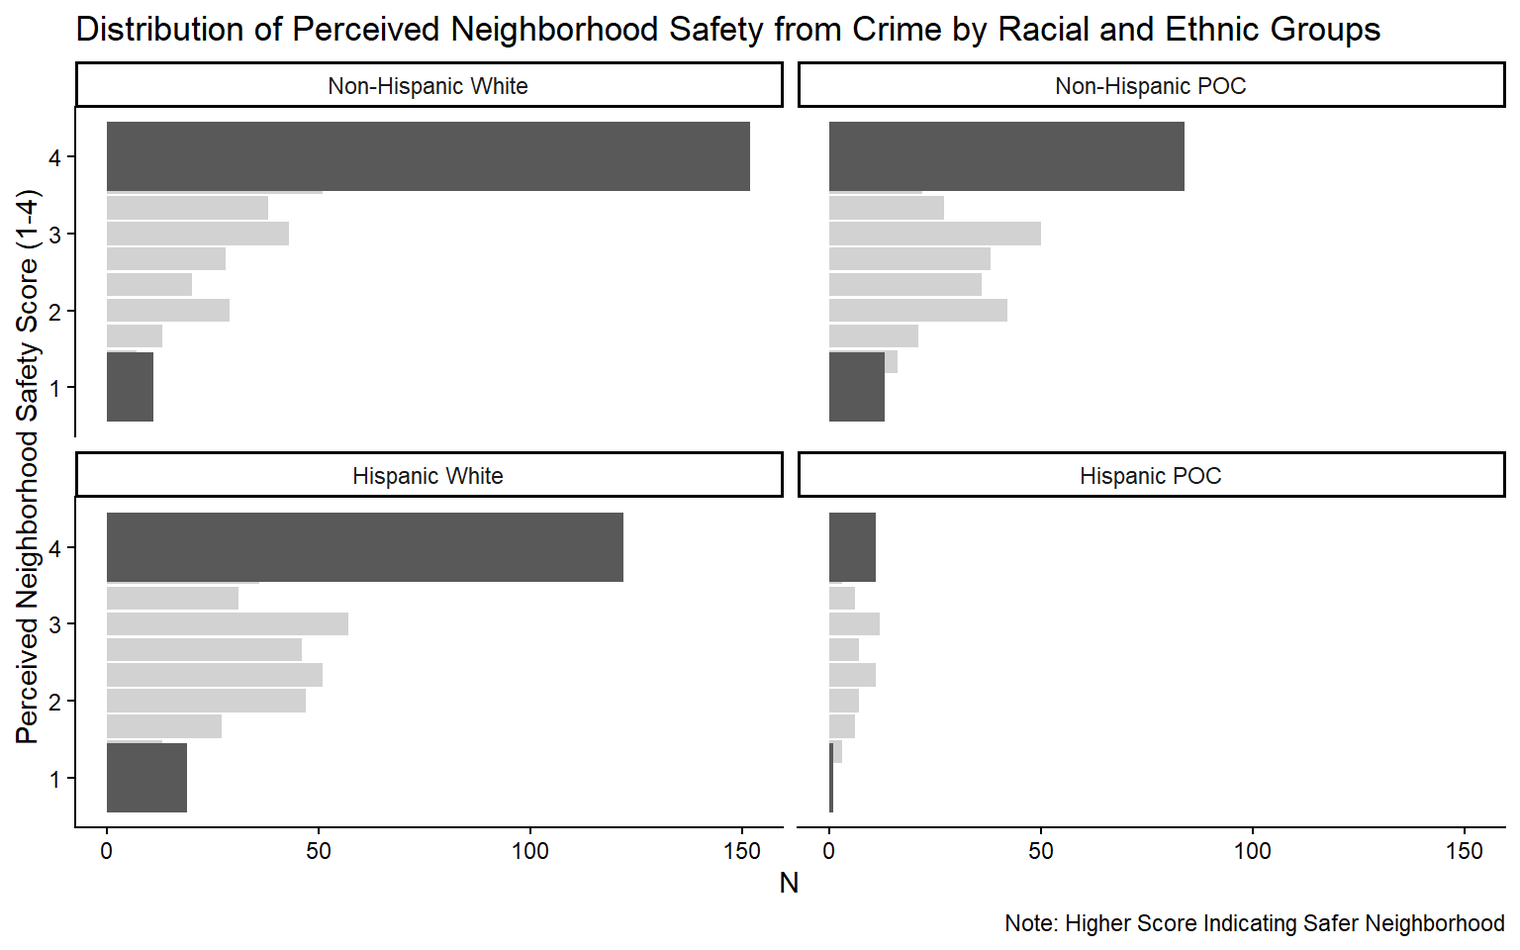
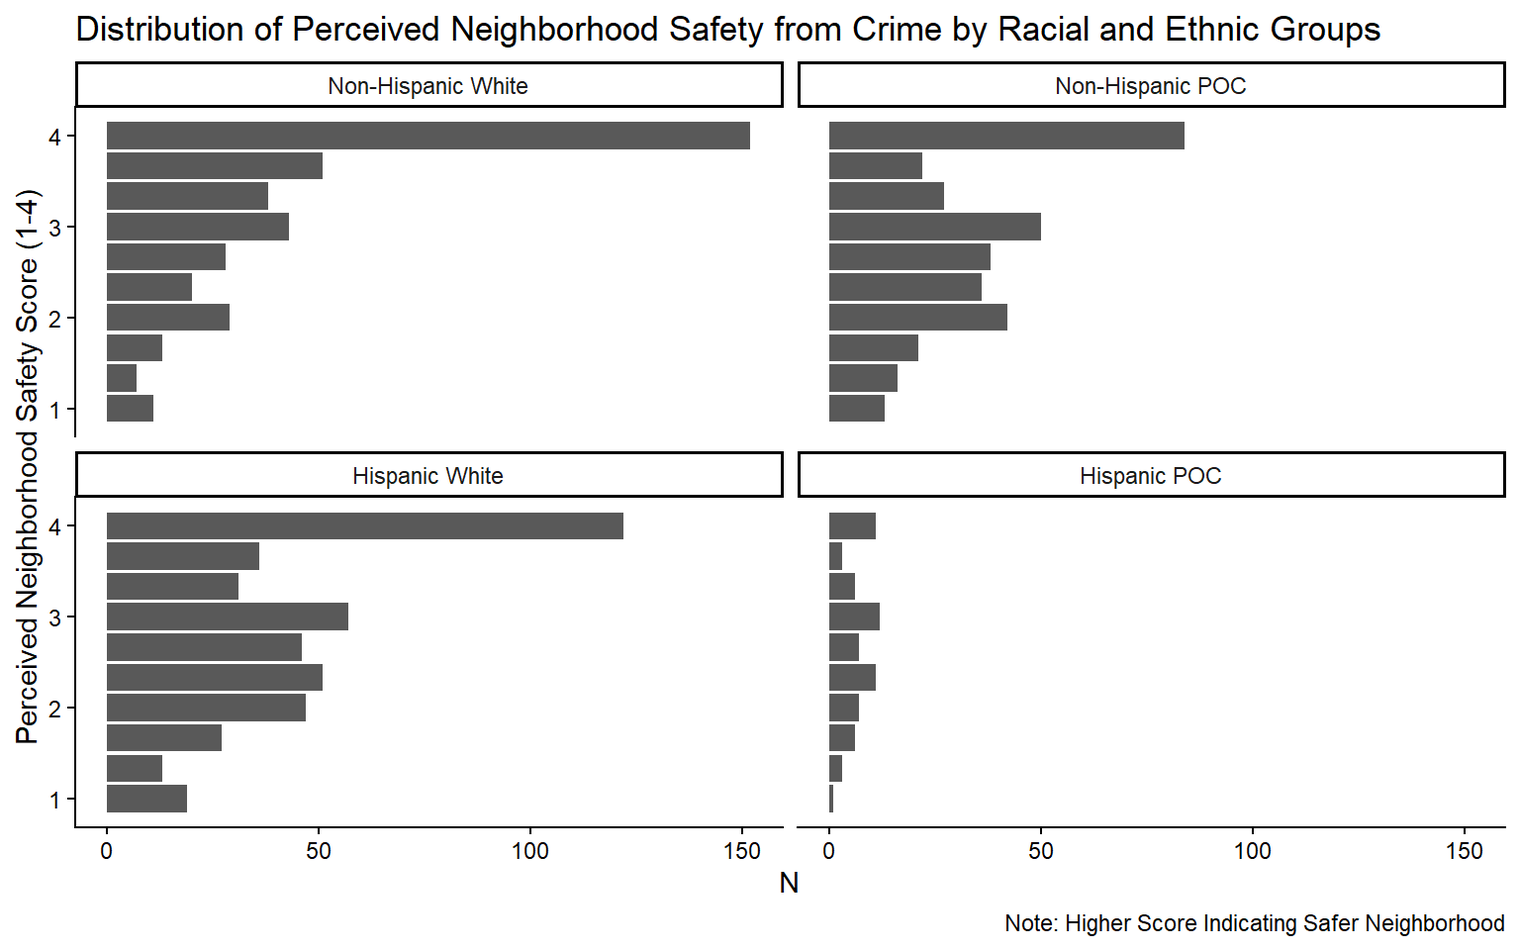
Final 3.17.26

diff --git a/index.html b/index.html
@@ -80,26 +80,42 @@ ul.task-list li input[type="checkbox"] {
 grid-auto-rows: minmax(0, 1fr);">
 <div id="exploring-variations-across-raceethnicity" class="dashboard-page tab-pane show active html-fill-item html-fill-container dashboard-sidebar-container" data-orientation="columns" aria-labelledby="tab-exploring-variations-across-raceethnicity">
 <div class="bslib-sidebar-layout html-fill-item html-fill-container" data-bslib-sidebar-open="desktop" data-bslib-sidebar-init="true" data-bslib-sidebar-border="false" data-bslib-sidebar-border-radius="false"><div class="main html-fill-container html-fill-item"><div class="sidebar-content html-fill-item html-fill-container">
-<div class="html-fill-item html-fill-container bslib-grid" style="display: grid; grid-template-columns: minmax(3em, 1fr);
+<div class="html-fill-item html-fill-container bslib-grid" style="display: grid; grid-template-columns: minmax(3em, 1fr) minmax(3em, 1fr);
 grid-auto-rows: minmax(0, 1fr);">
-<div class="card tabset html-fill-item html-fill-container bslib-card" data-bslib-card-init="" data-require-bs-caller="card()" data-full-screen="false">
-<div class="card-header dashboard-card-no-title bslib-navs-card-title">
-
-<ul class="nav nav-tabs card-header-tabs" role="tablist" data-tabsetid="card-tabset-1"><li class="nav-item" role="presentation"><a href="#card-tabset-1-1" role="tab" data-toggle="tab" data-bs-toggle="tab" data-value="Data Viz 1 (Ver. 1)" aria-selected="true" class="nav-link active">Data Viz 1 (Ver. 1)</a></li><li class="nav-item" role="presentation"><a href="#card-tabset-1-2" role="tab" data-toggle="tab" data-bs-toggle="tab" data-value="Data Viz 1 (Ver. 2)" aria-selected="false" class="nav-link">Data Viz 1 (Ver. 2)</a></li><li class="nav-item" role="presentation"><a href="#card-tabset-1-3" role="tab" data-toggle="tab" data-bs-toggle="tab" data-value="Data Viz 1 (Ver. 3)" aria-selected="false" class="nav-link">Data Viz 1 (Ver. 3)</a></li></ul></div>
-
-
-
-<div class="tab-content html-fill-item html-fill-container" data-tabset-id="card-tabset-1"><div class="tab-pane active show html-fill-item html-fill-container" role="tabpanel" id="card-tabset-1-1"><div class="card-body html-fill-item html-fill-container" data-title="Data Viz 1 (Ver. 1)">
+<div class="html-fill-item html-fill-container bslib-grid" style="display: grid; grid-template-rows: minmax(3em, 1fr); grid-auto-columns: minmax(0, 1fr);">
+<div class="card cell html-fill-item html-fill-container bslib-card" data-title="Data Viz 1 - Final" data-bslib-card-init="" data-require-bs-caller="card()" data-full-screen="false">
+<div class="card-header"><div class="card-title html-fill-item html-fill-container"><span style="display: inline">
+Data Viz 1 - Final
+</span></div></div>
+<div class="card-body html-fill-item html-fill-container">
 <div class="cell-output-display html-fill-item html-fill-container">
 <img src="lab6_cs_files/figure-html/unnamed-chunk-2-1.png" class="img-fluid quarto-dashboard-img-contain">
 </div>
-</div></div><div class="tab-pane html-fill-item html-fill-container" role="tabpanel" id="card-tabset-1-2"><div class="card-body html-fill-item html-fill-container" data-title="Data Viz 1 (Ver. 2)">
+</div>
+<bslib-tooltip placement="auto" bsoptions="[]" data-require-bs-version="5" data-require-bs-caller="tooltip()">
+    <template>Expand</template>
+    <span class="bslib-full-screen-enter badge rounded-pill">
+        <svg xmlns="http://www.w3.org/2000/svg" viewbox="0 0 24 24" style="height:1em;width:1em;" aria-hidden="true" role="img"><path d="M20 5C20 4.4 19.6 4 19 4H13C12.4 4 12 3.6 12 3C12 2.4 12.4 2 13 2H21C21.6 2 22 2.4 22 3V11C22 11.6 21.6 12 21 12C20.4 12 20 11.6 20 11V5ZM4 19C4 19.6 4.4 20 5 20H11C11.6 20 12 20.4 12 21C12 21.6 11.6 22 11 22H3C2.4 22 2 21.6 2 21V13C2 12.4 2.4 12 3 12C3.6 12 4 12.4 4 13V19Z"></path></svg>
+    </span>
+</bslib-tooltip><script data-bslib-card-init="">bslib.Card.initializeAllCards();</script></div>
+</div><div class="card tabset html-fill-item html-fill-container bslib-card" data-bslib-card-init="" data-require-bs-caller="card()" data-full-screen="false">
+<div class="card-header dashboard-card-no-title bslib-navs-card-title">
+
+<ul class="nav nav-tabs card-header-tabs" role="tablist" data-tabsetid="card-tabset-2"><li class="nav-item" role="presentation"><a href="#card-tabset-2-1" role="tab" data-toggle="tab" data-bs-toggle="tab" data-value="Data Viz 1 (Ver. 1)" aria-selected="true" class="nav-link active">Data Viz 1 (Ver. 1)</a></li><li class="nav-item" role="presentation"><a href="#card-tabset-2-2" role="tab" data-toggle="tab" data-bs-toggle="tab" data-value="Data Viz 1 (Ver. 2)" aria-selected="false" class="nav-link">Data Viz 1 (Ver. 2)</a></li><li class="nav-item" role="presentation"><a href="#card-tabset-2-3" role="tab" data-toggle="tab" data-bs-toggle="tab" data-value="Data Viz 1 (Ver. 3)" aria-selected="false" class="nav-link">Data Viz 1 (Ver. 3)</a></li></ul></div>
+
+
+
+<div class="tab-content html-fill-item html-fill-container" data-tabset-id="card-tabset-2"><div class="tab-pane active show html-fill-item html-fill-container" role="tabpanel" id="card-tabset-2-1"><div class="card-body html-fill-item html-fill-container" data-title="Data Viz 1 (Ver. 1)">
 <div class="cell-output-display html-fill-item html-fill-container">
 <img src="lab6_cs_files/figure-html/unnamed-chunk-3-1.png" class="img-fluid quarto-dashboard-img-contain">
 </div>
-</div></div><div class="tab-pane html-fill-item html-fill-container" role="tabpanel" id="card-tabset-1-3"><div class="card-body html-fill-item html-fill-container" data-title="Data Viz 1 (Ver. 3)">
+</div></div><div class="tab-pane html-fill-item html-fill-container" role="tabpanel" id="card-tabset-2-2"><div class="card-body html-fill-item html-fill-container" data-title="Data Viz 1 (Ver. 2)">
 <div class="cell-output-display html-fill-item html-fill-container">
 <img src="lab6_cs_files/figure-html/unnamed-chunk-4-1.png" class="img-fluid quarto-dashboard-img-contain">
+</div>
+</div></div><div class="tab-pane html-fill-item html-fill-container" role="tabpanel" id="card-tabset-2-3"><div class="card-body html-fill-item html-fill-container" data-title="Data Viz 1 (Ver. 3)">
+<div class="cell-output-display html-fill-item html-fill-container">
+<img src="lab6_cs_files/figure-html/unnamed-chunk-5-1.png" class="img-fluid quarto-dashboard-img-contain">
 </div>
 </div></div></div><bslib-tooltip placement="auto" bsoptions="[]" data-require-bs-version="5" data-require-bs-caller="tooltip()">
     <template>Expand</template>
@@ -127,26 +143,42 @@ bslib.Sidebar.initCollapsibleAll()
 </div>
 </div><div id="exploring-variations-across-gender-identities" class="dashboard-page tab-pane grid-skip html-fill-item html-fill-container dashboard-sidebar-container" data-orientation="columns" aria-labelledby="tab-exploring-variations-across-gender-identities">
 <div class="bslib-sidebar-layout html-fill-item html-fill-container" data-bslib-sidebar-open="desktop" data-bslib-sidebar-init="true"><div class="main html-fill-container html-fill-item"><div class="sidebar-content html-fill-item html-fill-container">
-<div class="html-fill-item html-fill-container bslib-grid" style="display: grid; grid-template-columns: minmax(3em, 1fr);
+<div class="html-fill-item html-fill-container bslib-grid" style="display: grid; grid-template-columns: minmax(3em, 1fr) minmax(3em, 1fr);
 grid-auto-rows: minmax(0, 1fr);">
-<div class="card tabset html-fill-item html-fill-container bslib-card" data-bslib-card-init="" data-require-bs-caller="card()" data-full-screen="false">
-<div class="card-header dashboard-card-no-title bslib-navs-card-title">
-
-<ul class="nav nav-tabs card-header-tabs" role="tablist" data-tabsetid="card-tabset-2"><li class="nav-item" role="presentation"><a href="#card-tabset-2-1" role="tab" data-toggle="tab" data-bs-toggle="tab" data-value="Data Viz 2 (Ver. 1)" aria-selected="true" class="nav-link active">Data Viz 2 (Ver. 1)</a></li><li class="nav-item" role="presentation"><a href="#card-tabset-2-2" role="tab" data-toggle="tab" data-bs-toggle="tab" data-value="Data Viz 2 (Ver. 2)" aria-selected="false" class="nav-link">Data Viz 2 (Ver. 2)</a></li><li class="nav-item" role="presentation"><a href="#card-tabset-2-3" role="tab" data-toggle="tab" data-bs-toggle="tab" data-value="Data Viz 2 (Ver. 3)" aria-selected="false" class="nav-link">Data Viz 2 (Ver. 3)</a></li></ul></div>
-
-
-
-<div class="tab-content html-fill-item html-fill-container" data-tabset-id="card-tabset-2"><div class="tab-pane active show html-fill-item html-fill-container" role="tabpanel" id="card-tabset-2-1"><div class="card-body html-fill-item html-fill-container" data-title="Data Viz 2 (Ver. 1)">
-<div class="cell-output-display html-fill-item html-fill-container">
-<img src="lab6_cs_files/figure-html/unnamed-chunk-5-1.png" class="img-fluid quarto-dashboard-img-contain">
-</div>
-</div></div><div class="tab-pane html-fill-item html-fill-container" role="tabpanel" id="card-tabset-2-2"><div class="card-body html-fill-item html-fill-container" data-title="Data Viz 2 (Ver. 2)">
+<div class="html-fill-item html-fill-container bslib-grid" style="display: grid; grid-template-rows: minmax(3em, 1fr); grid-auto-columns: minmax(0, 1fr);">
+<div class="card cell html-fill-item html-fill-container bslib-card" data-title="Data Viz 2 - Final" data-bslib-card-init="" data-require-bs-caller="card()" data-full-screen="false">
+<div class="card-header"><div class="card-title html-fill-item html-fill-container"><span style="display: inline">
+Data Viz 2 - Final
+</span></div></div>
+<div class="card-body html-fill-item html-fill-container">
 <div class="cell-output-display html-fill-item html-fill-container">
 <img src="lab6_cs_files/figure-html/unnamed-chunk-6-1.png" class="img-fluid quarto-dashboard-img-contain">
 </div>
-</div></div><div class="tab-pane html-fill-item html-fill-container" role="tabpanel" id="card-tabset-2-3"><div class="card-body html-fill-item html-fill-container" data-title="Data Viz 2 (Ver. 3)">
+</div>
+<bslib-tooltip placement="auto" bsoptions="[]" data-require-bs-version="5" data-require-bs-caller="tooltip()">
+    <template>Expand</template>
+    <span class="bslib-full-screen-enter badge rounded-pill">
+        <svg xmlns="http://www.w3.org/2000/svg" viewbox="0 0 24 24" style="height:1em;width:1em;" aria-hidden="true" role="img"><path d="M20 5C20 4.4 19.6 4 19 4H13C12.4 4 12 3.6 12 3C12 2.4 12.4 2 13 2H21C21.6 2 22 2.4 22 3V11C22 11.6 21.6 12 21 12C20.4 12 20 11.6 20 11V5ZM4 19C4 19.6 4.4 20 5 20H11C11.6 20 12 20.4 12 21C12 21.6 11.6 22 11 22H3C2.4 22 2 21.6 2 21V13C2 12.4 2.4 12 3 12C3.6 12 4 12.4 4 13V19Z"></path></svg>
+    </span>
+</bslib-tooltip><script data-bslib-card-init="">bslib.Card.initializeAllCards();</script></div>
+</div><div class="card tabset html-fill-item html-fill-container bslib-card" data-bslib-card-init="" data-require-bs-caller="card()" data-full-screen="false">
+<div class="card-header dashboard-card-no-title bslib-navs-card-title">
+
+<ul class="nav nav-tabs card-header-tabs" role="tablist" data-tabsetid="card-tabset-4"><li class="nav-item" role="presentation"><a href="#card-tabset-4-1" role="tab" data-toggle="tab" data-bs-toggle="tab" data-value="Data Viz 2 (Ver. 1)" aria-selected="true" class="nav-link active">Data Viz 2 (Ver. 1)</a></li><li class="nav-item" role="presentation"><a href="#card-tabset-4-2" role="tab" data-toggle="tab" data-bs-toggle="tab" data-value="Data Viz 2 (Ver. 2)" aria-selected="false" class="nav-link">Data Viz 2 (Ver. 2)</a></li><li class="nav-item" role="presentation"><a href="#card-tabset-4-3" role="tab" data-toggle="tab" data-bs-toggle="tab" data-value="Data Viz 2 (Ver. 3)" aria-selected="false" class="nav-link">Data Viz 2 (Ver. 3)</a></li></ul></div>
+
+
+
+<div class="tab-content html-fill-item html-fill-container" data-tabset-id="card-tabset-4"><div class="tab-pane active show html-fill-item html-fill-container" role="tabpanel" id="card-tabset-4-1"><div class="card-body html-fill-item html-fill-container" data-title="Data Viz 2 (Ver. 1)">
 <div class="cell-output-display html-fill-item html-fill-container">
 <img src="lab6_cs_files/figure-html/unnamed-chunk-7-1.png" class="img-fluid quarto-dashboard-img-contain">
+</div>
+</div></div><div class="tab-pane html-fill-item html-fill-container" role="tabpanel" id="card-tabset-4-2"><div class="card-body html-fill-item html-fill-container" data-title="Data Viz 2 (Ver. 2)">
+<div class="cell-output-display html-fill-item html-fill-container">
+<img src="lab6_cs_files/figure-html/unnamed-chunk-8-1.png" class="img-fluid quarto-dashboard-img-contain">
+</div>
+</div></div><div class="tab-pane html-fill-item html-fill-container" role="tabpanel" id="card-tabset-4-3"><div class="card-body html-fill-item html-fill-container" data-title="Data Viz 2 (Ver. 3)">
+<div class="cell-output-display html-fill-item html-fill-container">
+<img src="lab6_cs_files/figure-html/unnamed-chunk-9-1.png" class="img-fluid quarto-dashboard-img-contain">
 </div>
 </div></div></div><bslib-tooltip placement="auto" bsoptions="[]" data-require-bs-version="5" data-require-bs-caller="tooltip()">
     <template>Expand</template>
@@ -174,21 +206,37 @@ bslib.Sidebar.initCollapsibleAll()
 </div>
 </div><div id="exploring-variations-across-income-status" class="dashboard-page tab-pane grid-skip html-fill-item html-fill-container dashboard-sidebar-container" data-orientation="columns" aria-labelledby="tab-exploring-variations-across-income-status">
 <div class="bslib-sidebar-layout html-fill-item html-fill-container" data-bslib-sidebar-open="desktop" data-bslib-sidebar-init="true"><div class="main html-fill-container html-fill-item"><div class="sidebar-content html-fill-item html-fill-container">
-<div class="html-fill-item html-fill-container bslib-grid" style="display: grid; grid-template-columns: minmax(3em, 1fr);
+<div class="html-fill-item html-fill-container bslib-grid" style="display: grid; grid-template-columns: minmax(3em, 1fr) minmax(3em, 1fr);
 grid-auto-rows: minmax(0, 1fr);">
-<div class="card tabset html-fill-item html-fill-container bslib-card" data-bslib-card-init="" data-require-bs-caller="card()" data-full-screen="false">
+<div class="html-fill-item html-fill-container bslib-grid" style="display: grid; grid-template-rows: minmax(3em, 1fr); grid-auto-columns: minmax(0, 1fr);">
+<div class="card cell html-fill-item html-fill-container bslib-card" data-title="Data Viz 3 - Final" data-bslib-card-init="" data-require-bs-caller="card()" data-full-screen="false">
+<div class="card-header"><div class="card-title html-fill-item html-fill-container"><span style="display: inline">
+Data Viz 3 - Final
+</span></div></div>
+<div class="card-body html-fill-item html-fill-container">
+<div class="cell-output-display html-fill-item html-fill-container">
+<img src="lab6_cs_files/figure-html/unnamed-chunk-10-1.png" class="img-fluid quarto-dashboard-img-contain">
+</div>
+</div>
+<bslib-tooltip placement="auto" bsoptions="[]" data-require-bs-version="5" data-require-bs-caller="tooltip()">
+    <template>Expand</template>
+    <span class="bslib-full-screen-enter badge rounded-pill">
+        <svg xmlns="http://www.w3.org/2000/svg" viewbox="0 0 24 24" style="height:1em;width:1em;" aria-hidden="true" role="img"><path d="M20 5C20 4.4 19.6 4 19 4H13C12.4 4 12 3.6 12 3C12 2.4 12.4 2 13 2H21C21.6 2 22 2.4 22 3V11C22 11.6 21.6 12 21 12C20.4 12 20 11.6 20 11V5ZM4 19C4 19.6 4.4 20 5 20H11C11.6 20 12 20.4 12 21C12 21.6 11.6 22 11 22H3C2.4 22 2 21.6 2 21V13C2 12.4 2.4 12 3 12C3.6 12 4 12.4 4 13V19Z"></path></svg>
+    </span>
+</bslib-tooltip><script data-bslib-card-init="">bslib.Card.initializeAllCards();</script></div>
+</div><div class="card tabset html-fill-item html-fill-container bslib-card" data-bslib-card-init="" data-require-bs-caller="card()" data-full-screen="false">
 <div class="card-header dashboard-card-no-title bslib-navs-card-title">
 
-<ul class="nav nav-tabs card-header-tabs" role="tablist" data-tabsetid="card-tabset-3"><li class="nav-item" role="presentation"><a href="#card-tabset-3-1" role="tab" data-toggle="tab" data-bs-toggle="tab" data-value="Data Viz 3 (Ver. 1)" aria-selected="true" class="nav-link active">Data Viz 3 (Ver. 1)</a></li><li class="nav-item" role="presentation"><a href="#card-tabset-3-2" role="tab" data-toggle="tab" data-bs-toggle="tab" data-value="Data Viz 3 (Ver. 2)" aria-selected="false" class="nav-link">Data Viz 3 (Ver. 2)</a></li></ul></div>
+<ul class="nav nav-tabs card-header-tabs" role="tablist" data-tabsetid="card-tabset-6"><li class="nav-item" role="presentation"><a href="#card-tabset-6-1" role="tab" data-toggle="tab" data-bs-toggle="tab" data-value="Data Viz 3 (Ver. 1)" aria-selected="true" class="nav-link active">Data Viz 3 (Ver. 1)</a></li><li class="nav-item" role="presentation"><a href="#card-tabset-6-2" role="tab" data-toggle="tab" data-bs-toggle="tab" data-value="Data Viz 3 (Ver. 2)" aria-selected="false" class="nav-link">Data Viz 3 (Ver. 2)</a></li></ul></div>
 
 
-<div class="tab-content html-fill-item html-fill-container" data-tabset-id="card-tabset-3"><div class="tab-pane active show html-fill-item html-fill-container" role="tabpanel" id="card-tabset-3-1"><div class="card-body html-fill-item html-fill-container" data-title="Data Viz 3 (Ver. 1)">
+<div class="tab-content html-fill-item html-fill-container" data-tabset-id="card-tabset-6"><div class="tab-pane active show html-fill-item html-fill-container" role="tabpanel" id="card-tabset-6-1"><div class="card-body html-fill-item html-fill-container" data-title="Data Viz 3 (Ver. 1)">
 <div class="cell-output-display html-fill-item html-fill-container">
-<img src="lab6_cs_files/figure-html/unnamed-chunk-8-1.png" class="img-fluid quarto-dashboard-img-contain">
+<img src="lab6_cs_files/figure-html/unnamed-chunk-11-1.png" class="img-fluid quarto-dashboard-img-contain">
 </div>
-</div></div><div class="tab-pane html-fill-item html-fill-container" role="tabpanel" id="card-tabset-3-2"><div class="card-body html-fill-item html-fill-container" data-title="Data Viz 3 (Ver. 2)">
+</div></div><div class="tab-pane html-fill-item html-fill-container" role="tabpanel" id="card-tabset-6-2"><div class="card-body html-fill-item html-fill-container" data-title="Data Viz 3 (Ver. 2)">
 <div class="cell-output-display html-fill-item html-fill-container">
-<img src="lab6_cs_files/figure-html/unnamed-chunk-9-1.png" class="img-fluid quarto-dashboard-img-contain">
+<img src="lab6_cs_files/figure-html/unnamed-chunk-12-1.png" class="img-fluid quarto-dashboard-img-contain">
 </div>
 </div></div></div><bslib-tooltip placement="auto" bsoptions="[]" data-require-bs-version="5" data-require-bs-caller="tooltip()">
     <template>Expand</template>
@@ -216,29 +264,45 @@ bslib.Sidebar.initCollapsibleAll()
 </div>
 </div><div id="variations-across-constructed-strata" class="dashboard-page tab-pane grid-skip html-fill-item html-fill-container dashboard-sidebar-container" data-orientation="columns" aria-labelledby="tab-variations-across-constructed-strata">
 <div class="bslib-sidebar-layout html-fill-item html-fill-container" data-bslib-sidebar-open="desktop" data-bslib-sidebar-init="true"><div class="main html-fill-container html-fill-item"><div class="sidebar-content html-fill-item html-fill-container">
-<div class="html-fill-item html-fill-container bslib-grid" style="display: grid; grid-template-columns: minmax(3em, 1fr);
+<div class="html-fill-item html-fill-container bslib-grid" style="display: grid; grid-template-columns: minmax(3em, 1fr) minmax(3em, 1fr);
 grid-auto-rows: minmax(0, 1fr);">
-<div class="card tabset html-fill-item html-fill-container bslib-card" data-bslib-card-init="" data-require-bs-caller="card()" data-full-screen="false">
+<div class="html-fill-item html-fill-container bslib-grid" style="display: grid; grid-template-rows: minmax(3em, 1fr); grid-auto-columns: minmax(0, 1fr);">
+<div class="card cell html-fill-item html-fill-container bslib-card" data-title="Data Viz 4 - Final" data-bslib-card-init="" data-require-bs-caller="card()" data-full-screen="false">
+<div class="card-header"><div class="card-title html-fill-item html-fill-container"><span style="display: inline">
+Data Viz 4 - Final
+</span></div></div>
+<div class="card-body html-fill-item html-fill-container">
+<div class="cell-output-display html-fill-item html-fill-container">
+<img src="lab6_cs_files/figure-html/unnamed-chunk-13-1.png" class="img-fluid quarto-dashboard-img-contain">
+</div>
+</div>
+<bslib-tooltip placement="auto" bsoptions="[]" data-require-bs-version="5" data-require-bs-caller="tooltip()">
+    <template>Expand</template>
+    <span class="bslib-full-screen-enter badge rounded-pill">
+        <svg xmlns="http://www.w3.org/2000/svg" viewbox="0 0 24 24" style="height:1em;width:1em;" aria-hidden="true" role="img"><path d="M20 5C20 4.4 19.6 4 19 4H13C12.4 4 12 3.6 12 3C12 2.4 12.4 2 13 2H21C21.6 2 22 2.4 22 3V11C22 11.6 21.6 12 21 12C20.4 12 20 11.6 20 11V5ZM4 19C4 19.6 4.4 20 5 20H11C11.6 20 12 20.4 12 21C12 21.6 11.6 22 11 22H3C2.4 22 2 21.6 2 21V13C2 12.4 2.4 12 3 12C3.6 12 4 12.4 4 13V19Z"></path></svg>
+    </span>
+</bslib-tooltip><script data-bslib-card-init="">bslib.Card.initializeAllCards();</script></div>
+</div><div class="card tabset html-fill-item html-fill-container bslib-card" data-bslib-card-init="" data-require-bs-caller="card()" data-full-screen="false">
 <div class="card-header dashboard-card-no-title bslib-navs-card-title">
 
-<ul class="nav nav-tabs card-header-tabs" role="tablist" data-tabsetid="card-tabset-4"><li class="nav-item" role="presentation"><a href="#card-tabset-4-1" role="tab" data-toggle="tab" data-bs-toggle="tab" data-value="Data Viz 4 (Ver. 1)" aria-selected="true" class="nav-link active">Data Viz 4 (Ver. 1)</a></li><li class="nav-item" role="presentation"><a href="#card-tabset-4-2" role="tab" data-toggle="tab" data-bs-toggle="tab" data-value="Data Viz 4 (Ver. 2)" aria-selected="false" class="nav-link">Data Viz 4 (Ver. 2)</a></li><li class="nav-item" role="presentation"><a href="#card-tabset-4-3" role="tab" data-toggle="tab" data-bs-toggle="tab" data-value="Data Viz 4 (Ver. 3)" aria-selected="false" class="nav-link">Data Viz 4 (Ver. 3)</a></li></ul></div>
+<ul class="nav nav-tabs card-header-tabs" role="tablist" data-tabsetid="card-tabset-8"><li class="nav-item" role="presentation"><a href="#card-tabset-8-1" role="tab" data-toggle="tab" data-bs-toggle="tab" data-value="Data Viz 4 (Ver. 1)" aria-selected="true" class="nav-link active">Data Viz 4 (Ver. 1)</a></li><li class="nav-item" role="presentation"><a href="#card-tabset-8-2" role="tab" data-toggle="tab" data-bs-toggle="tab" data-value="Data Viz 4 (Ver. 2)" aria-selected="false" class="nav-link">Data Viz 4 (Ver. 2)</a></li><li class="nav-item" role="presentation"><a href="#card-tabset-8-3" role="tab" data-toggle="tab" data-bs-toggle="tab" data-value="Data Viz 4 (Ver. 3)" aria-selected="false" class="nav-link">Data Viz 4 (Ver. 3)</a></li></ul></div>
 
 
 
 <div id="3ade8a4a-fb1d-4a6c-8409-ac45482d5fc9" class="hidden html-fill-item html-fill-container">
 
 </div>
-<div class="tab-content html-fill-item html-fill-container" data-tabset-id="card-tabset-4"><div class="tab-pane active show html-fill-item html-fill-container" role="tabpanel" id="card-tabset-4-1"><div class="card-body html-fill-item html-fill-container" data-title="Data Viz 4 (Ver. 1)">
+<div class="tab-content html-fill-item html-fill-container" data-tabset-id="card-tabset-8"><div class="tab-pane active show html-fill-item html-fill-container" role="tabpanel" id="card-tabset-8-1"><div class="card-body html-fill-item html-fill-container" data-title="Data Viz 4 (Ver. 1)">
 <div class="cell-output-display html-fill-item html-fill-container">
-<img src="lab6_cs_files/figure-html/unnamed-chunk-10-1.png" class="img-fluid quarto-dashboard-img-contain">
+<img src="lab6_cs_files/figure-html/unnamed-chunk-14-1.png" class="img-fluid quarto-dashboard-img-contain">
 </div>
-</div></div><div class="tab-pane html-fill-item html-fill-container" role="tabpanel" id="card-tabset-4-2"><div class="card-body html-fill-item html-fill-container" data-title="Data Viz 4 (Ver. 2)">
+</div></div><div class="tab-pane html-fill-item html-fill-container" role="tabpanel" id="card-tabset-8-2"><div class="card-body html-fill-item html-fill-container" data-title="Data Viz 4 (Ver. 2)">
 <div class="cell-output-display html-fill-item html-fill-container">
-<img src="lab6_cs_files/figure-html/unnamed-chunk-11-1.png" class="img-fluid quarto-dashboard-img-contain">
+<img src="lab6_cs_files/figure-html/unnamed-chunk-15-1.png" class="img-fluid quarto-dashboard-img-contain">
 </div>
-</div></div><div class="tab-pane html-fill-item html-fill-container" role="tabpanel" id="card-tabset-4-3"><div class="card-body html-fill-item html-fill-container" data-title="Data Viz 4 (Ver. 3)">
+</div></div><div class="tab-pane html-fill-item html-fill-container" role="tabpanel" id="card-tabset-8-3"><div class="card-body html-fill-item html-fill-container" data-title="Data Viz 4 (Ver. 3)">
 <div class="cell-output-display html-fill-item html-fill-container">
-<img src="lab6_cs_files/figure-html/unnamed-chunk-12-1.png" class="img-fluid quarto-dashboard-img-contain">
+<img src="lab6_cs_files/figure-html/unnamed-chunk-16-1.png" class="img-fluid quarto-dashboard-img-contain">
 </div>
 </div></div></div><bslib-tooltip placement="auto" bsoptions="[]" data-require-bs-version="5" data-require-bs-caller="tooltip()">
     <template>Expand</template>
